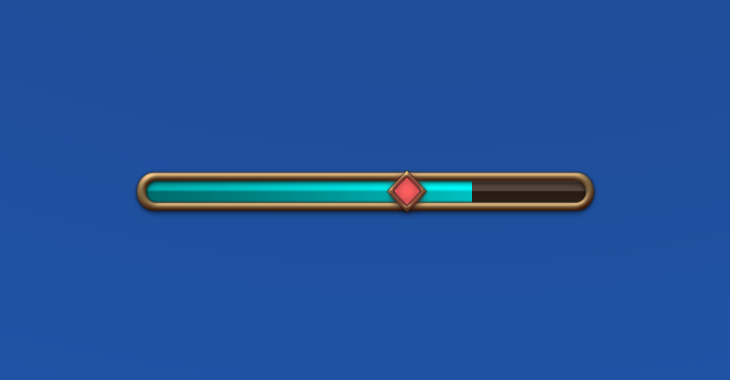
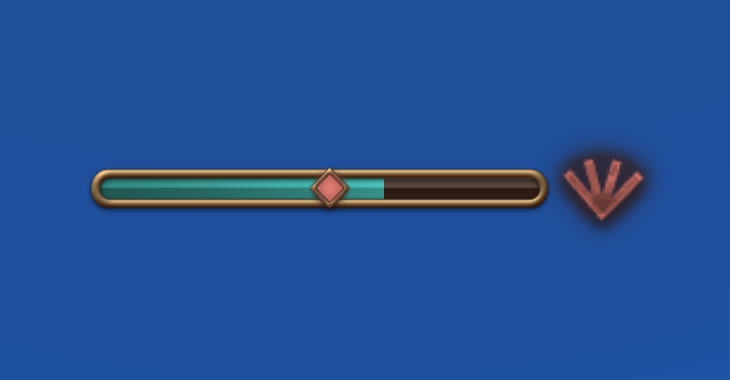
Lucid Dreaming MP regen detection rework. Updated image1.

Changed region(s): [[0.1205, 0.3763, 0.9041, 0.6368]]

diff --git a/MPTickBar/Source/UpdateEventState.cs b/MPTickBar/Source/UpdateEventState.cs
@@ -71,9 +71,21 @@ namespace MPTickBar
             if (!this.EnteringCombatWithoutProgress)
                 this.EnteringCombatWithoutProgress = !this.IsInCombat.Last && this.IsInCombat.Current && (mpTickBarPluginUI.GetProgress(false) == 0.0);
 
+            var isLucidDreamingMPRecover = false;
+            if (PlayerHelpers.IsLucidDreamingActivated(currentPlayer))
+            {
+                var lucidDreamingPotency = 50;
+                var mpReturned = lucidDreamingPotency * 10000 / 1000;
+                var mpRecovered = this.MP.Current - this.MP.Last;
+                var iSrecoveringLastMPTick = (this.MP.Current == currentPlayer.MaxMp) && (this.MP.Last > (currentPlayer.MaxMp - mpReturned));
+
+                if (mpRecovered > 0 && (mpRecovered == mpReturned || iSrecoveringLastMPTick))
+                    isLucidDreamingMPRecover = true;
+            }
+
             var incrementedTime = this.Time.Current - this.Time.Last;
 
-            if (!PlayerHelpers.IsLucidDreamingActivated(currentPlayer))
+            if (!isLucidDreamingMPRecover)
             {
                 var wasMPReset = (this.MP.Last == 0) && (this.MP.Current == currentPlayer.MaxMp);
                 var wasMPRegenerated = (this.MP.Last < this.MP.Current) && !wasMPReset;
@@ -110,7 +122,7 @@ namespace MPTickBar
             this.IsDead.SaveData();
             this.IsManafontOnCooldown.SaveData();
 
-            mpTickBarPluginUI.UpdateProgressTime(incrementedTime);
+            mpTickBarPluginUI.Update(incrementedTime);
         }
     }
 }

diff --git a/MPTickBar/Source/Plugin/MPTickBarPluginUI.cs b/MPTickBar/Source/Plugin/MPTickBarPluginUI.cs
@@ -108,10 +108,15 @@ namespace MPTickBar
             this.Progress = 0.0;
         }
 
-        public void UpdateProgressTime(double incrementedTime)
+        public void Update(double incrementedTime)
         {
-            this.Progress = (this.Progress + (incrementedTime / 3.0)) % 1.0;
-            this.ProgressPreview = ((DateTime.Now.Second % 3.0) + (DateTime.Now.Millisecond / 1000.0)) / 3.0;
+            var fireIIICastSeconds = 3.0;
+
+            this.Progress += incrementedTime / fireIIICastSeconds;
+            if (this.Progress > 1)
+                this.Progress -= 1;
+
+            this.ProgressPreview = ((DateTime.Now.Second % fireIIICastSeconds) + (DateTime.Now.Millisecond / 1000.0)) / fireIIICastSeconds;
         }
 
         public double GetProgress(bool isPreview)
@@ -246,7 +251,7 @@ namespace MPTickBar
             var gaugeElementWidth = mpTickBarUI.Gauge.Width * textureToElementScale;
             var gaugeElementHeight = 40.0f * textureToElementScale;
             var offsetX = !isPreview ? 50.0f : 4.0f;
-            var offsetY = !isPreview ? 50.0f : 40.0f;
+            var offsetY = !isPreview ? 90.0f : 40.0f;
 
             MPTickBarPluginUI.RenderBackgroundUIElement(mpTickBarUI, offsetX, offsetY, gaugeElementWidth, gaugeElementHeight, textureToElementScale, 5);
 

diff --git a/MPTickBar/Source/Plugin/Configuration.cs b/MPTickBar/Source/Plugin/Configuration.cs
@@ -24,7 +24,7 @@ namespace MPTickBar
 
         public float UIScale { get; set; } = 1.0f;
 
-        public float FastFireIIIMarkerTimeOffset { get; set; } = 0.20f;
+        public float FastFireIIIMarkerTimeOffset { get; set; } = 0.10f;
 
         public Vector3 ProgressBarTintColor { get; set; } = new Vector3(0.0f, 1.0f, 1.0f);
 
